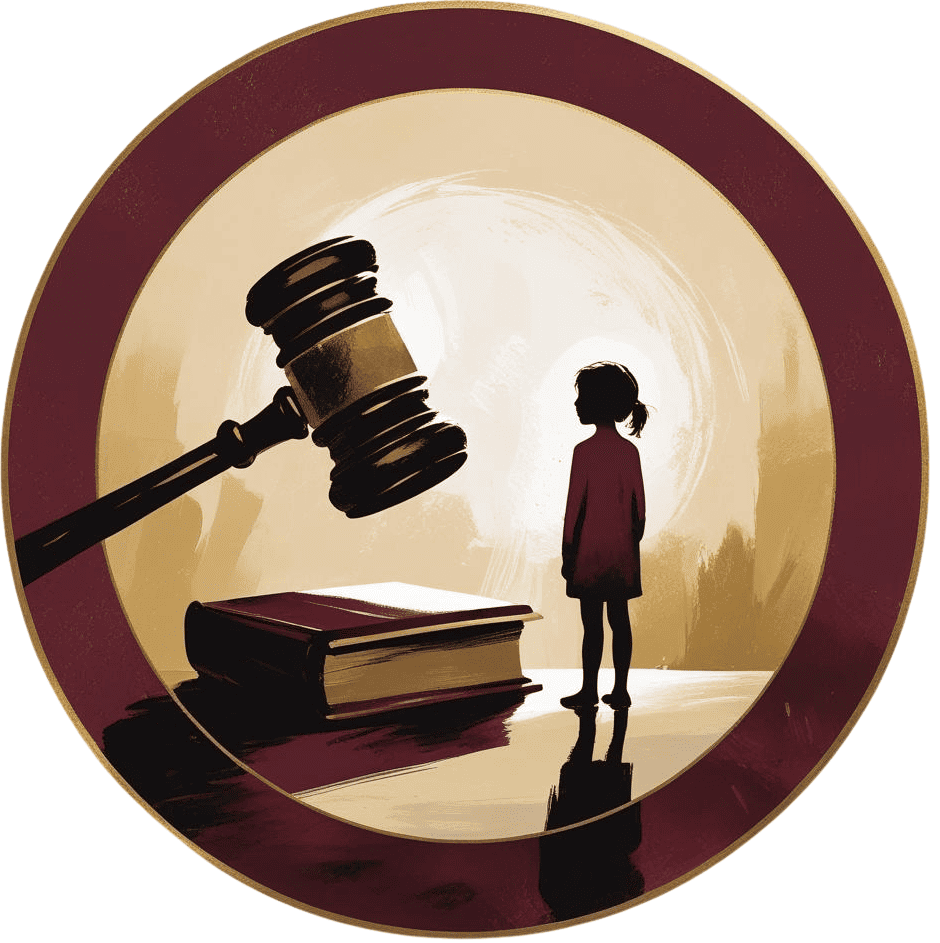
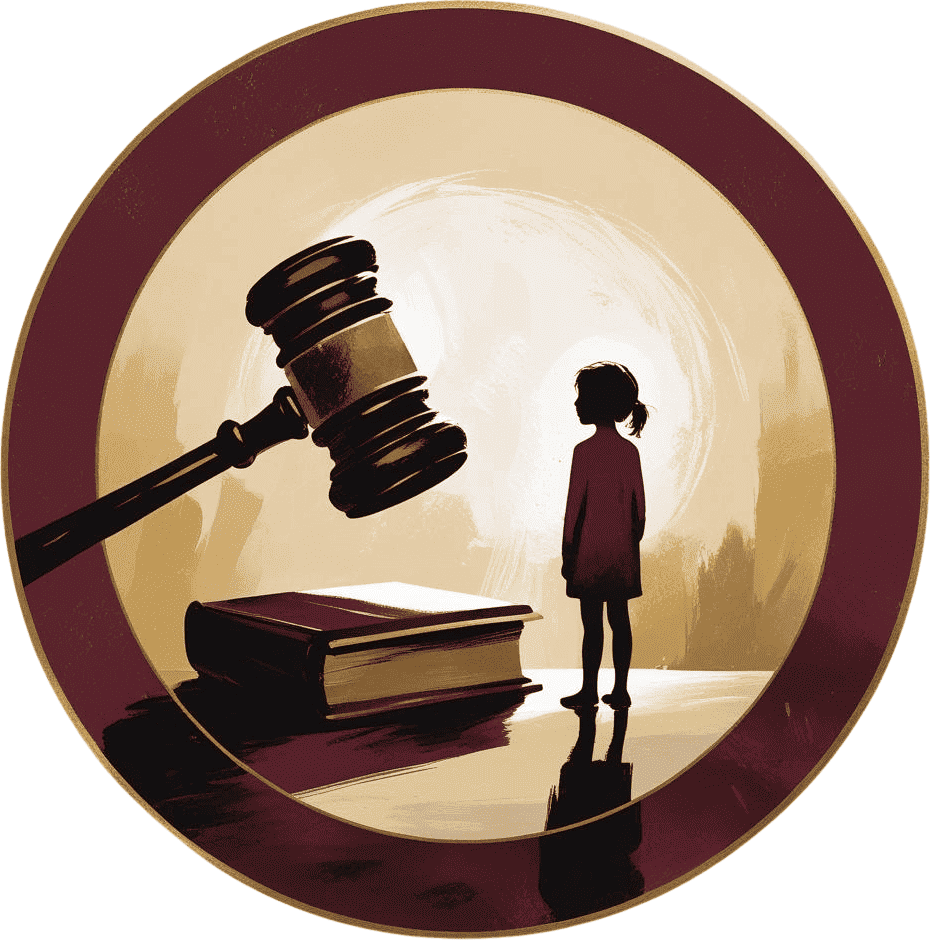
informações gerais do aplicativo
ajustado layout e adicionado informações gerais do aplicativo

Changed region(s): [[0.2468, 0.5228, 0.2777, 0.5536], [0.1543, 0.4305, 0.1851, 0.4613]]

diff --git a/screens/home.js b/screens/home.js
@@ -1,8 +1,9 @@
-import React from 'react';
-import { View, Text, StyleSheet, ScrollView, Image, TouchableOpacity, useColorScheme} from 'react-native';
+import React, { useState } from 'react';
+import { View, Text, StyleSheet, ScrollView, Image, TouchableOpacity, LayoutAnimation, Platform, UIManager } from 'react-native';
 import LinearGradient from 'react-native-linear-gradient';
 
 const lista = require('./dados/informacoes.json');
+const infoGeral = require('./dados/infoGeral.json');
 const imagens = {
   'GuiaDeCasamento': require('../assets/guiaDeCasamento1.png'),
   'IdentidadeLegal': require('../assets/identidadeLegal1.png'),
@@ -14,41 +15,130 @@ const imagens = {
   'TiposDeFamilias': require('../assets/tiposDeFamilias1.png'),
   'DestituiçãoPoderFamiliar': require('../assets/destituiçãoPoderFamiliar1.png'),
 };
-const HomeScreen = ({ navigation }) =>  {
-  const colorScheme = useColorScheme();
-  const backgroundColor = '#ffffff';
-  
+
+if (Platform.OS === 'android' && UIManager.setLayoutAnimationEnabledExperimental) {
+  UIManager.setLayoutAnimationEnabledExperimental(true);
+}
+
+const HomeScreen = ({ navigation }) => {
+  const [showInfo, setShowInfo] = useState(false);
+  const [expanded, setExpanded] = useState({});
+
+  const toggleInfo = () => {
+    LayoutAnimation.configureNext(LayoutAnimation.Presets.easeInEaseOut);
+    setShowInfo(!showInfo);
+  };
+
+  const toggleSection = (key) => {
+    LayoutAnimation.configureNext(LayoutAnimation.Presets.easeInEaseOut);
+    setExpanded(prev => ({ ...prev, [key]: !prev[key] }));
+  };
+
   return (
     <View style={styles.container}>
-      <ScrollView style={styles.scroll} contentContainerStyle={{ paddingBottom: 35 ,backgroundColor: '#ffffff' }}>
+      <ScrollView style={styles.scroll} contentContainerStyle={{ paddingBottom: 100 }}>
+        {/* Cabeçalho */}
         <LinearGradient colors={['#8B4A52', '#8B4A52', '#5D252A']} style={styles.headerScroll2}>
-          <Image source={require('../assets/splash1.png')} style={styles.icon} resizeMode="contain"/>
-          <Text style={styles.textTemaAplicativo}>Direito da Familia
-            
-          </Text>
+          <Image source={require('../assets/splash1.png')} style={styles.icon} resizeMode="contain" />
+          <Text style={styles.textTemaAplicativo}>Direito da Família</Text>
           <Text style={styles.text1}>Conhecimento jurídico especializado ao seu alcance</Text>
         </LinearGradient>
-        {lista.ListaDados.length === 0 && (
+
+        {/* Lista de cards */}
+        {lista.ListaDados?.length === 0 && (
           <Text style={styles.emptyText}>Nenhum dado disponível no momento</Text>
         )}
-        {lista.ListaDados.map((item, index) => (
-        <TouchableOpacity key={item.titulo} onPress={() => navigation.navigate(item.tela)}>
-          <View style={styles.container}>
-            <LinearGradient colors={['#FFFFFF', '#FAF7F0','#FFFFFF']} start={{ x: 0, y: 0 }}  end={{ x: 1, y: 0 }}  style={styles.card}>
-              <View style={styles.header}>
-                <Image source={imagens[item.imagemSecundari]} style={styles.postImage} />
-                <View style={styles.headerText}>
-                  <Text style={styles.temaPinciapl}>{item.temaPinciapl}</Text>
-                  <Text style={styles.titulo}>{item.tituloTela}</Text>
+        {lista.ListaDados?.map((item) => (
+          <TouchableOpacity key={item.titulo} onPress={() => navigation.navigate(item.tela)}>
+            <View style={styles.container}>
+              <LinearGradient colors={['#FFFFFF', '#FAF7F0', '#FFFFFF']} style={styles.card}>
+                <View style={styles.header}>
+                  <Image source={imagens[item.imagemSecundari]} style={styles.postImage} />
+                  <View style={styles.headerText}>
+                    <Text style={styles.temaPinciapl}>{item.temaPinciapl}</Text>
+                    <Text style={styles.titulo}>{item.tituloTela}</Text>
+                  </View>
                 </View>
-              </View>
-              <View style={styles.assuntoBox}>
-                <Text style={styles.assuntoText}>{item.textAssunto}</Text>
-              </View>
-            </LinearGradient>
-          </View>
-        </TouchableOpacity> 
+                <View style={styles.assuntoBox}>
+                  <Text style={styles.assuntoText}>{item.textAssunto}</Text>
+                </View>
+              </LinearGradient>
+            </View>
+          </TouchableOpacity>
         ))}
+
+        {/* Seção inferior - Informações do aplicativo */}
+        <View style={styles.infoContainer}>
+          <TouchableOpacity onPress={toggleInfo} style={styles.infoHeader}>
+            <Text style={styles.infoTitle}>
+              {showInfo ? 'Ocultar informações' : 'Ver mais sobre o aplicativo'}
+            </Text>
+          </TouchableOpacity>
+
+          {showInfo && (
+            <View style={styles.infoContent}>
+              {/* Instituição */}
+              <TouchableOpacity onPress={() => toggleSection('instituicao')} style={styles.sectionHeader}>
+                <Text style={styles.sectionTitle}>🏛 Instituição</Text>
+              </TouchableOpacity>
+              {expanded.instituicao && (
+                <View style={styles.sectionBody}>
+                  <Text style={styles.sectionText1}>
+                    <Text style={styles.bullet}>•  </Text>
+                    {infoGeral.informacoes_gerais.instituicao.nome}
+                  </Text>
+                  <Text style={styles.sectionText1}>
+                    <Text style={styles.bullet}>•  </Text>
+                    {infoGeral.informacoes_gerais.instituicao.descricao}
+                  </Text>
+                </View>
+              )}
+              {/* Coordenação */}
+              <TouchableOpacity onPress={() => toggleSection('prof')} style={styles.sectionHeader}>
+                <Text style={styles.sectionTitle}>👨🏫  Mentores</Text>
+              </TouchableOpacity>
+              {expanded.prof && (
+                <View style={styles.sectionBody}>
+                  {infoGeral.informacoes_gerais.Mentores.map((p, i) => (
+                    <View key={i} style={styles.professorBox}>
+                      <Text style={styles.sectionTextCargo}>{p.cargo}</Text>
+                      <Text style={styles.sectionTextNome}>{p.nome}</Text>
+                    </View>
+                  ))}
+                </View>
+              )}
+              {/* Desenvolvedores */}
+              <TouchableOpacity onPress={() => toggleSection('devs')} style={styles.sectionHeader}>
+                <Text style={styles.sectionTitle}>💻 Desenvolvedores</Text>
+              </TouchableOpacity>
+              {expanded.devs && (
+                <View style={styles.sectionBody}>
+                  {infoGeral.informacoes_gerais.desenvolvedores.map((dev, i) => (
+                    <Text key={i} style={styles.sectionText2}>
+                      <Text style={styles.bullet}>•  </Text>
+                      {dev}
+                    </Text>
+                  ))}
+                </View>
+              )}
+              {/* Turma de Direito */}
+              <TouchableOpacity onPress={() => toggleSection('direito')} style={styles.sectionHeader}>
+                <Text style={styles.sectionTitle}>⚖ Turma de Direito</Text>
+              </TouchableOpacity>
+              {expanded.direito && (
+                <View style={styles.sectionBody}>
+                  <Text style={styles.sectionText3}>{infoGeral.informacoes_gerais.turma_de_direito.descricao}</Text>
+                  {infoGeral.informacoes_gerais.turma_de_direito.alunos.map((aluno, i) => (
+                    <Text key={i} style={styles.sectionText2}>
+                      <Text style={styles.bullet}>•  </Text>
+                      {aluno}
+                    </Text>
+                  ))}
+                </View>
+              )}
+            </View>
+          )}
+        </View>
       </ScrollView>
     </View>
   );
@@ -60,8 +150,6 @@ const styles = StyleSheet.create({
   container: {
     flex: 1,
     backgroundColor: '#FAF7F0',
-    marginTop: -10,
-    marginBottom: 10,
   },
   scroll: {
     paddingHorizontal: 10,
@@ -74,8 +162,6 @@ const styles = StyleSheet.create({
   },
   card: {
     width: '100%',
-    height: '94%',
-    backgroundColor: '#222222',
     borderRadius: 12,
     padding: 10,
     marginBottom: 18,
@@ -95,7 +181,6 @@ const styles = StyleSheet.create({
   temaPinciapl: {
     color: '#5D252A',
     fontWeight: 'bold',
-    marginTop: -10,
     fontSize: 25,
   },
   titulo: {
@@ -112,25 +197,20 @@ const styles = StyleSheet.create({
     marginRight: 10,
   },
   assuntoBox: {
-  backgroundColor: '#d4af3750',
-  paddingVertical: 7,
-  paddingHorizontal: 10,
-  borderRadius: 12,
-  marginLeft: 7,
-  marginRight: 7,
-  marginBottom: 10,
-  borderColor: '#d4af3774',
-  borderWidth: 2,
-  overflow: "hidden",
+    backgroundColor: '#d4af3750',
+    paddingVertical: 7,
+    paddingHorizontal: 10,
+    borderRadius: 12,
+    borderColor: '#d4af3774',
+    borderWidth: 2,
+    marginBottom: 10,
   },
   assuntoText: {
     color: '#6f6d6dff',
     fontSize: 15,
-    lineHeight: 20,
     textAlign: 'justify',
   },
-
-   headerScroll2: {
+  headerScroll2: {
     alignItems: 'center',
     width: '110%',
     padding: 16,
@@ -139,7 +219,7 @@ const styles = StyleSheet.create({
   },
   textTemaAplicativo: {
     fontSize: 25,
-    fontStyle: 'bold',
+    fontWeight: 'bold',
     color: '#FFFFFF',
     marginBottom: 5,
   },
@@ -152,10 +232,84 @@ const styles = StyleSheet.create({
     height: 60,
     marginTop: 40,
   },
-  temaAplicativo: {
-    fontSize: 22,
-    fontStyle: 'bold',
-    color: '#ffffff',
-    marginBottom: 5,
-  }
+  infoContainer: {
+    backgroundColor: '#fff',
+    padding: 10,
+    borderRadius: 12,
+  },
+  infoHeader: {
+    alignItems: 'center',
+    backgroundColor:'#8B4A52',
+    padding: 12,
+    borderRadius: 20,
+    width: '65%',
+    alignSelf: 'center',
+  },
+  infoTitle: {
+    fontSize: 15,
+    color: '#ffffffff',
+  },
+  infoContent: {
+    marginTop: 20,
+    padding: 10,
+    borderRadius: 12,
+    borderColor: '#D4AF37',
+    borderWidth: 0.2,
+    borderTopWidth: 2,
+  },
+  sectionHeader: {
+    marginBottom: 15,
+    padding: 12,
+    borderRadius: 12,
+    borderColor: '#D4AF37',
+    borderLeftWidth: 2,
+    borderWidth: 0.2,
+  },
+  sectionTitle: {
+    fontSize: 17,
+    fontWeight: "bold",
+    color: '#8B4A52',
+  },
+  sectionBody: {
+    paddingLeft: 15,
+    marginBottom: 20,
+  },
+  sectionText1: {
+    fontSize: 13,
+    color: '#000000ff',
+    textAlign: "justify", 
+  },
+  sectionText2: {
+    fontSize: 15,
+    color: '#000000ff',
+    textAlign: "justify", 
+  },
+  sectionText3: {
+    fontSize: 15,
+    color: '#8B4A52',
+    fontWeight: "bold",
+    textAlign: "justify", 
+  },
+  professorBox: {
+    marginBottom: 10,
+    paddingBottom: 5,
+  },
+
+  sectionTextCargo: {
+    fontSize: 15,
+    color: '#8B4A52',
+    fontWeight: "bold",
+    textAlign: "justify", 
+  },
+
+  sectionTextNome: {
+    fontSize: 15,
+    color: '#000000ff',
+    marginLeft: 10,
+  },
+  bullet: {
+    color: '#D4AF37',
+    fontWeight: 'bold',
+  },
+
 });
